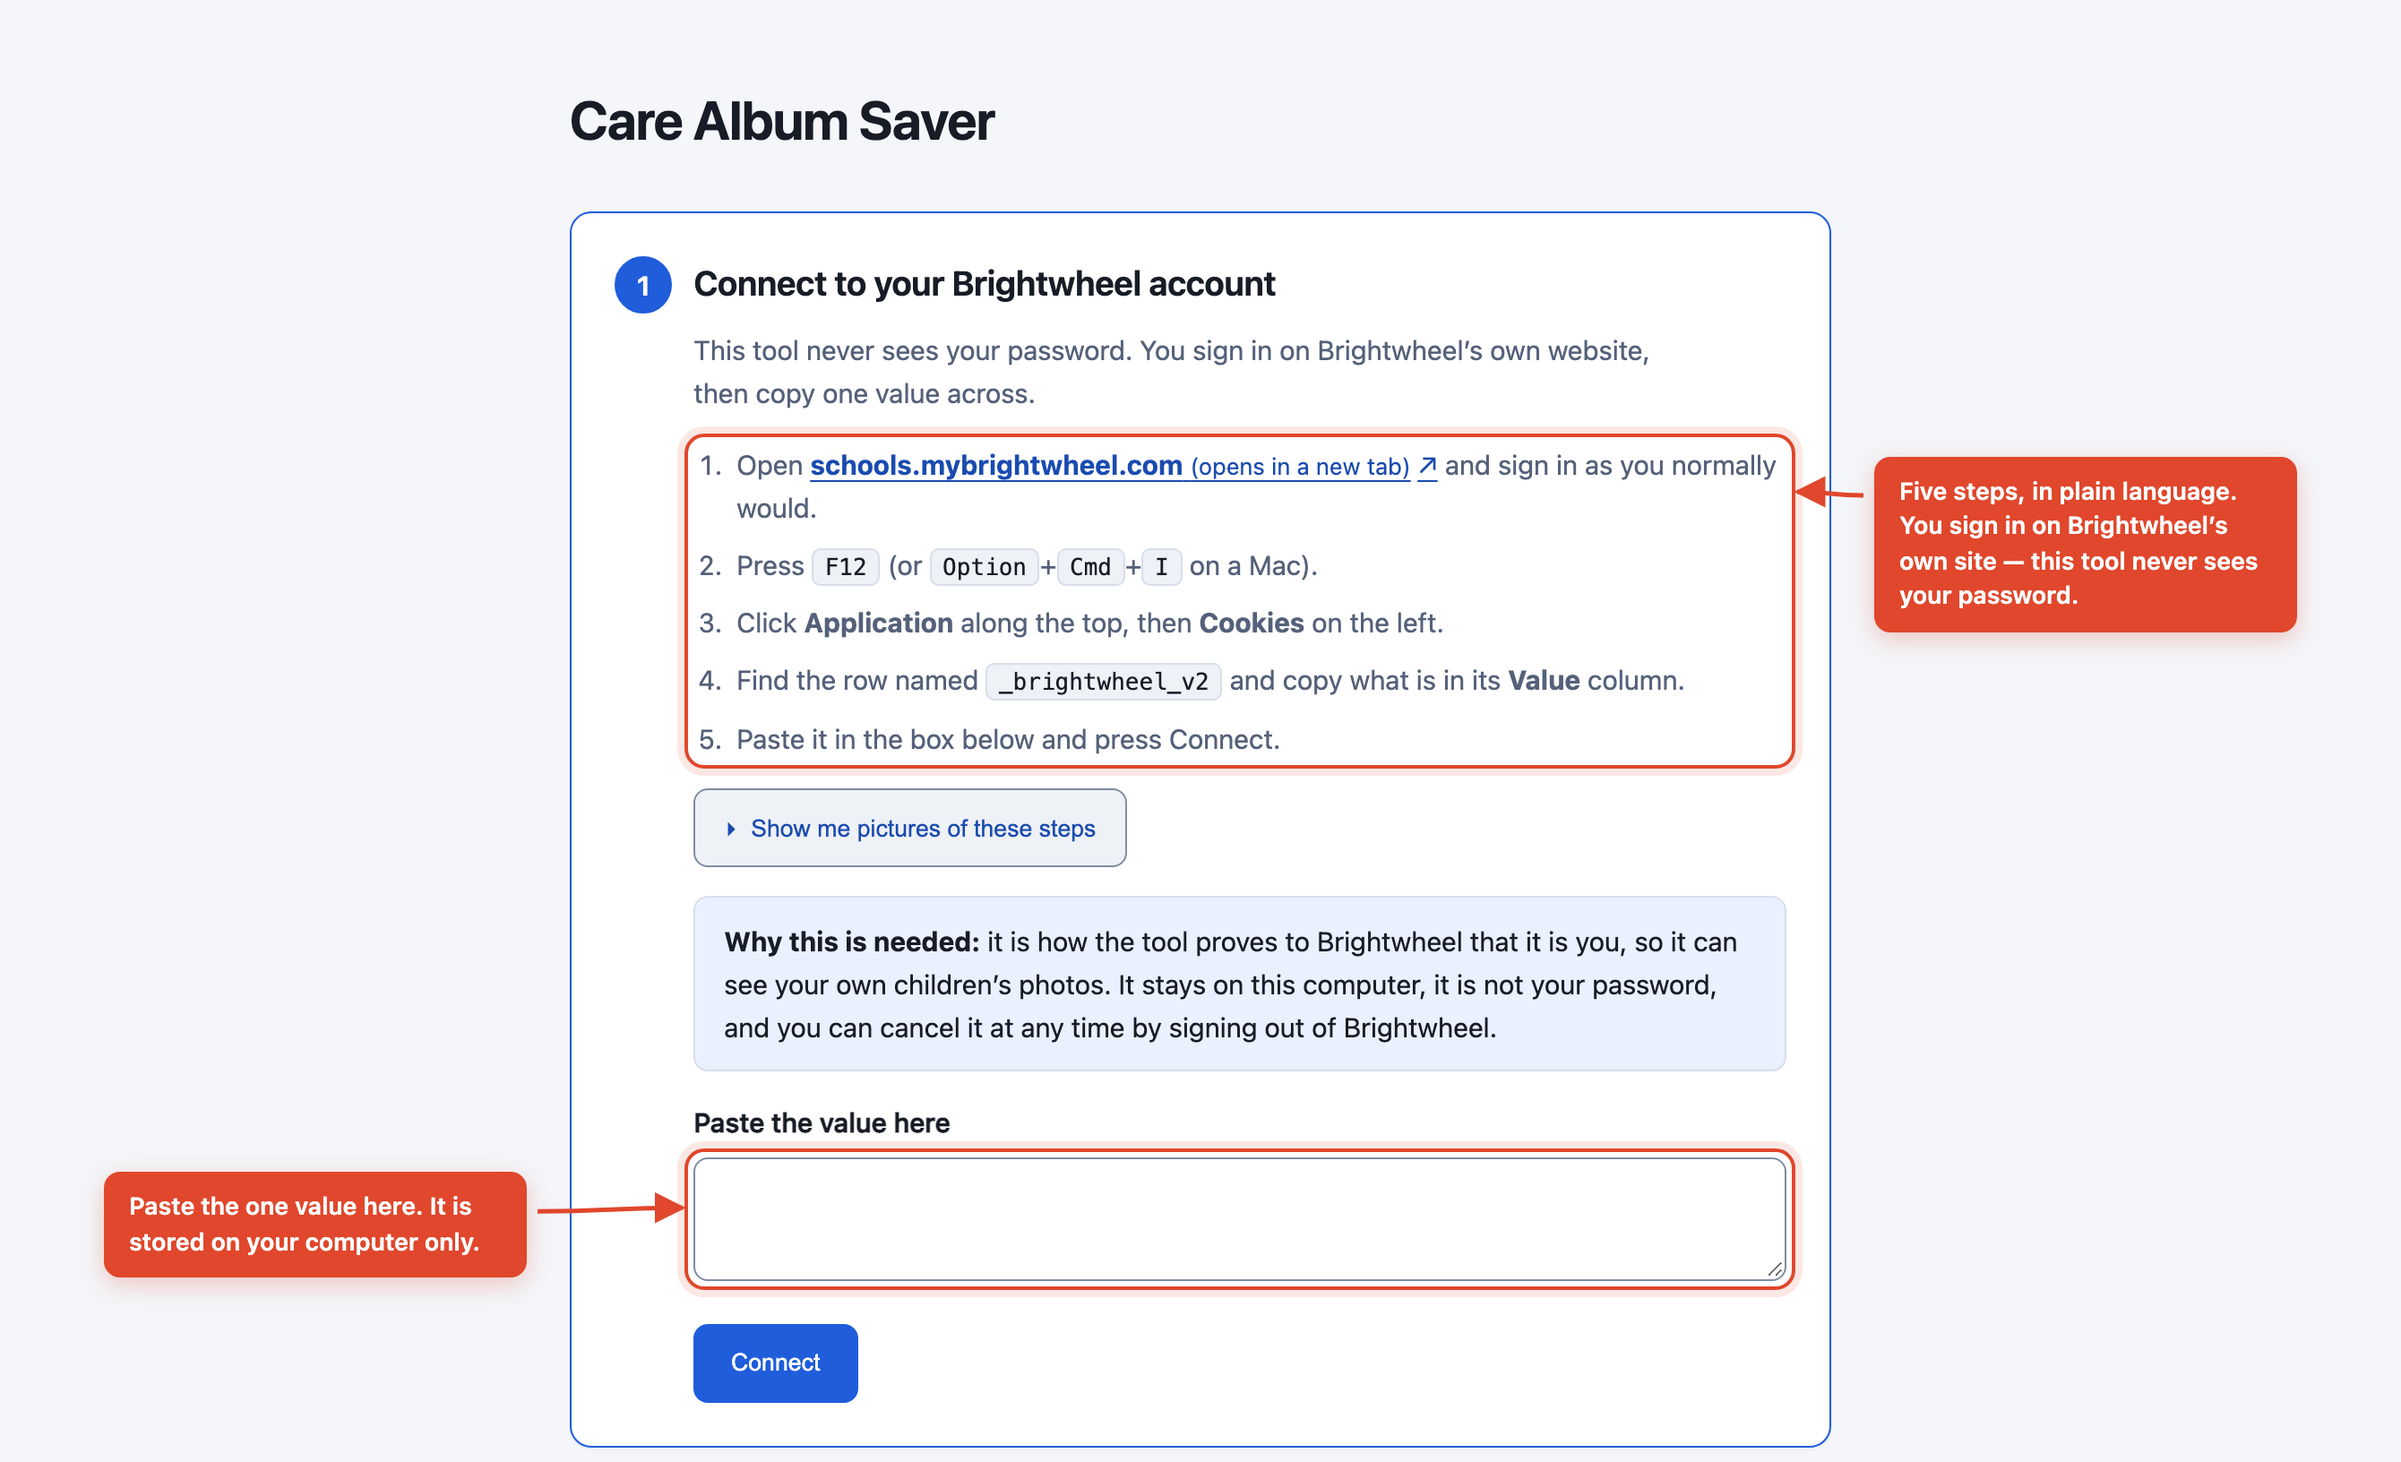
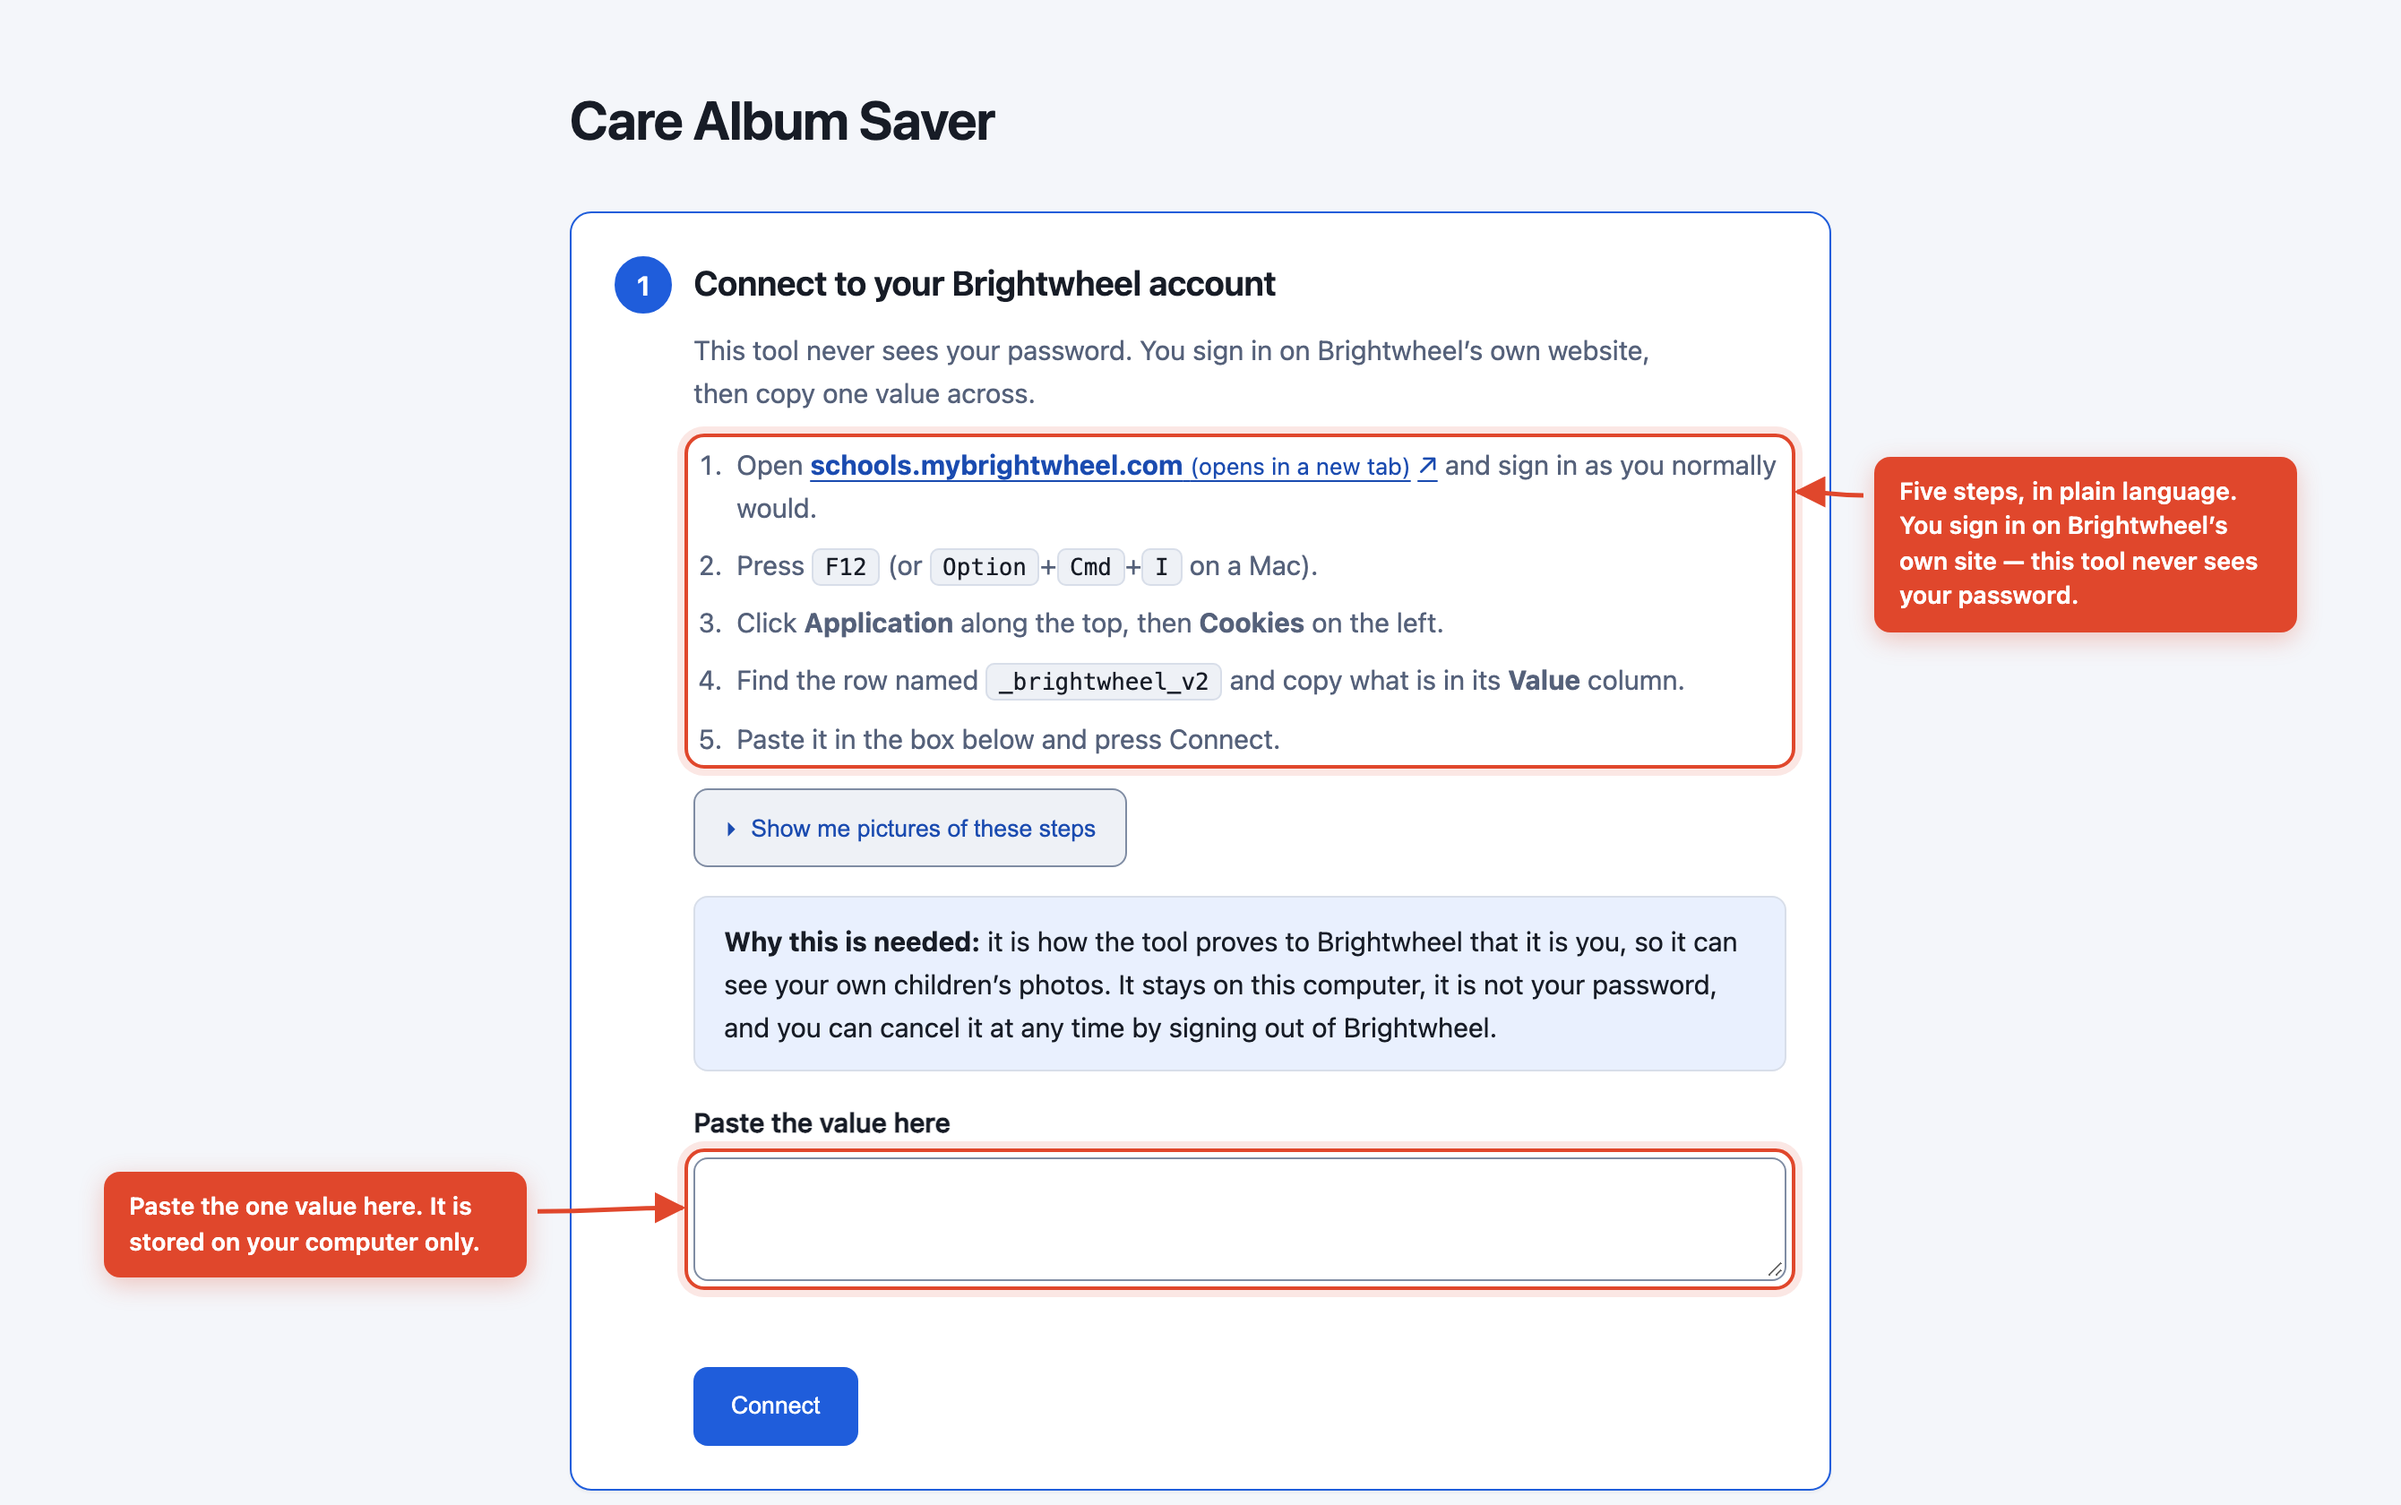
Keep the page's own name free of somebody else's, and refresh the pictures
The setup page keeps the name Care Album Saver, and the reason is now written
where someone would otherwise "fix" it: a tool that puts another company's trade
mark in its OWN name is the one that gets a letter, and the project may grow to
read more than one nursery service. "Brightwheel" stays on the page only where
it names the service a parent signs in to, which is what a name is for. A test
asserts that the tab and the heading contain no such mark, so the reasoning
fails loudly rather than being reverted by a later tidy-up.

The outward link's assertions are tightened while they are open: the exact href
including its closing quote, because a prefix match would still pass if a query
string were ever appended to the one URL that leaves a page whose address
carries the setup token; and rel as a set rather than a string, because the two
tokens are order-independent to a browser and a reorder is not a regression.

The five guide images are regenerated. They were stale twice over: two branches
had each rebuilt them from a different page, and the paste box has since gained
a line of its own that says what it made of what you pasted.

Changed region(s): [[0.031, 0.1562, 0.9601, 0.9062], [0.2787, 0.8438, 0.7743, 0.9375], [0.2478, 0.0625, 0.4026, 0.0938]]

diff --git a/packages/brightwheel-archive/test/page-identity.test.js b/packages/brightwheel-archive/test/page-identity.test.js
@@ -56,12 +56,22 @@ const BROWSERS = {
   Safari: 'Mozilla/5.0 (Macintosh; Intel Mac OS X 10_15_7) AppleWebKit/605.1.15 (KHTML, like Gecko) Version/18.0 Safari/605.1.15',
 };
 
-test('the page calls itself Care Album Saver, in the tab and in the heading', async () => {
+test('the page calls itself Care Album Saver, and does not put Brightwheel in its own name', async () => {
   const { html } = await servedPage();
 
   assert.match(html, /<title>Care Album Saver<\/title>/, 'the browser tab carries the name');
   assert.match(html, /<h1>Care Album Saver<\/h1>/, 'and so does the heading, word for word');
   assert.equal((html.match(/<h1/g) || []).length, 1, 'exactly one h1');
+
+  // The name is deliberately not the package's, and this is the assertion that says so.
+  // This page is the face of the tool, and a tool that put somebody else's trade mark in
+  // its OWN name is the one a lawyer's letter closes. Every appearance of "Brightwheel"
+  // on this page names the service a parent signs in to — nominative use — and none of
+  // them is the tool's name.
+  const title = html.slice(html.indexOf('<title>'), html.indexOf('</title>'));
+  const heading = html.slice(html.indexOf('<h1>'), html.indexOf('</h1>'));
+  assert.ok(!/brightwheel/i.test(title), 'the tab name is not somebody else\'s mark');
+  assert.ok(!/brightwheel/i.test(heading), 'nor is the heading');
 
   // The subtitle was removed, not reworded. A page carrying two explanations of itself is
   // how the old one and a new one end up contradicting each other later.
@@ -79,9 +89,15 @@ test('the Brightwheel address in step one is a link, and says that it opens a ne
     const steps = howToStepsFor(html, ua);
     const first = steps[0];
 
-    assert.match(first, /href="https:\/\/schools\.mybrightwheel\.com\//, `${name}: a real link, not an address to retype`);
+    // The exact href, closing quote included: a prefix match would still pass if a query
+    // string, a fragment or an interpolated value were ever appended to the one URL that
+    // leaves this page, and this page's own address carries the setup token.
+    assert.match(first, /href="https:\/\/schools\.mybrightwheel\.com\/"/, `${name}: a real link, to exactly that address`);
     assert.match(first, /target="_blank"/, `${name}: opens beside the page, which keeps the paste box in place`);
-    assert.match(first, /rel="noopener noreferrer"/, `${name}: the new tab gets no handle on this one and no referrer`);
+    // As a set, not as a string: the two are order-independent to a browser, so a reorder
+    // is not a regression and must not read as one.
+    const rel = new Set((first.match(/rel="([^"]*)"/)?.[1] ?? '').split(/\s+/).filter(Boolean));
+    assert.ok(rel.has('noopener') && rel.has('noreferrer'), `${name}: the new tab gets no handle on this one and no referrer`);
 
     // An arrow alone is announced as nothing at all, so the words are inside the link text
     // and therefore part of the name a screen reader reads out (WCAG 3.2.5).

diff --git a/packages/brightwheel-archive/src/web/page.ts b/packages/brightwheel-archive/src/web/page.ts
@@ -121,7 +121,12 @@ export const PAGE = String.raw`<!doctype html>
 
   /* The name stands on its own: there is no subtitle under it, so the heading carries its
      whole margin and the gap to step 1 is the one deliberate space, not an 8px remnant of
-     a paragraph that used to sit between them. */
+     a paragraph that used to sit between them.
+
+     The name itself is deliberate and is NOT the package's name. This page is the only
+     face a parent sees, and it does not carry somebody else's trade mark: "Brightwheel"
+     appears here only where it names the service a parent is signing in to, which is what
+     a trade mark is for. Do not "fix" this to match the package name. */
   header { margin-bottom: var(--s6); }
   h1 { font-size: 1.875rem; line-height: 1.25; margin: 0; letter-spacing: -.02em; font-weight: 650; }
 
